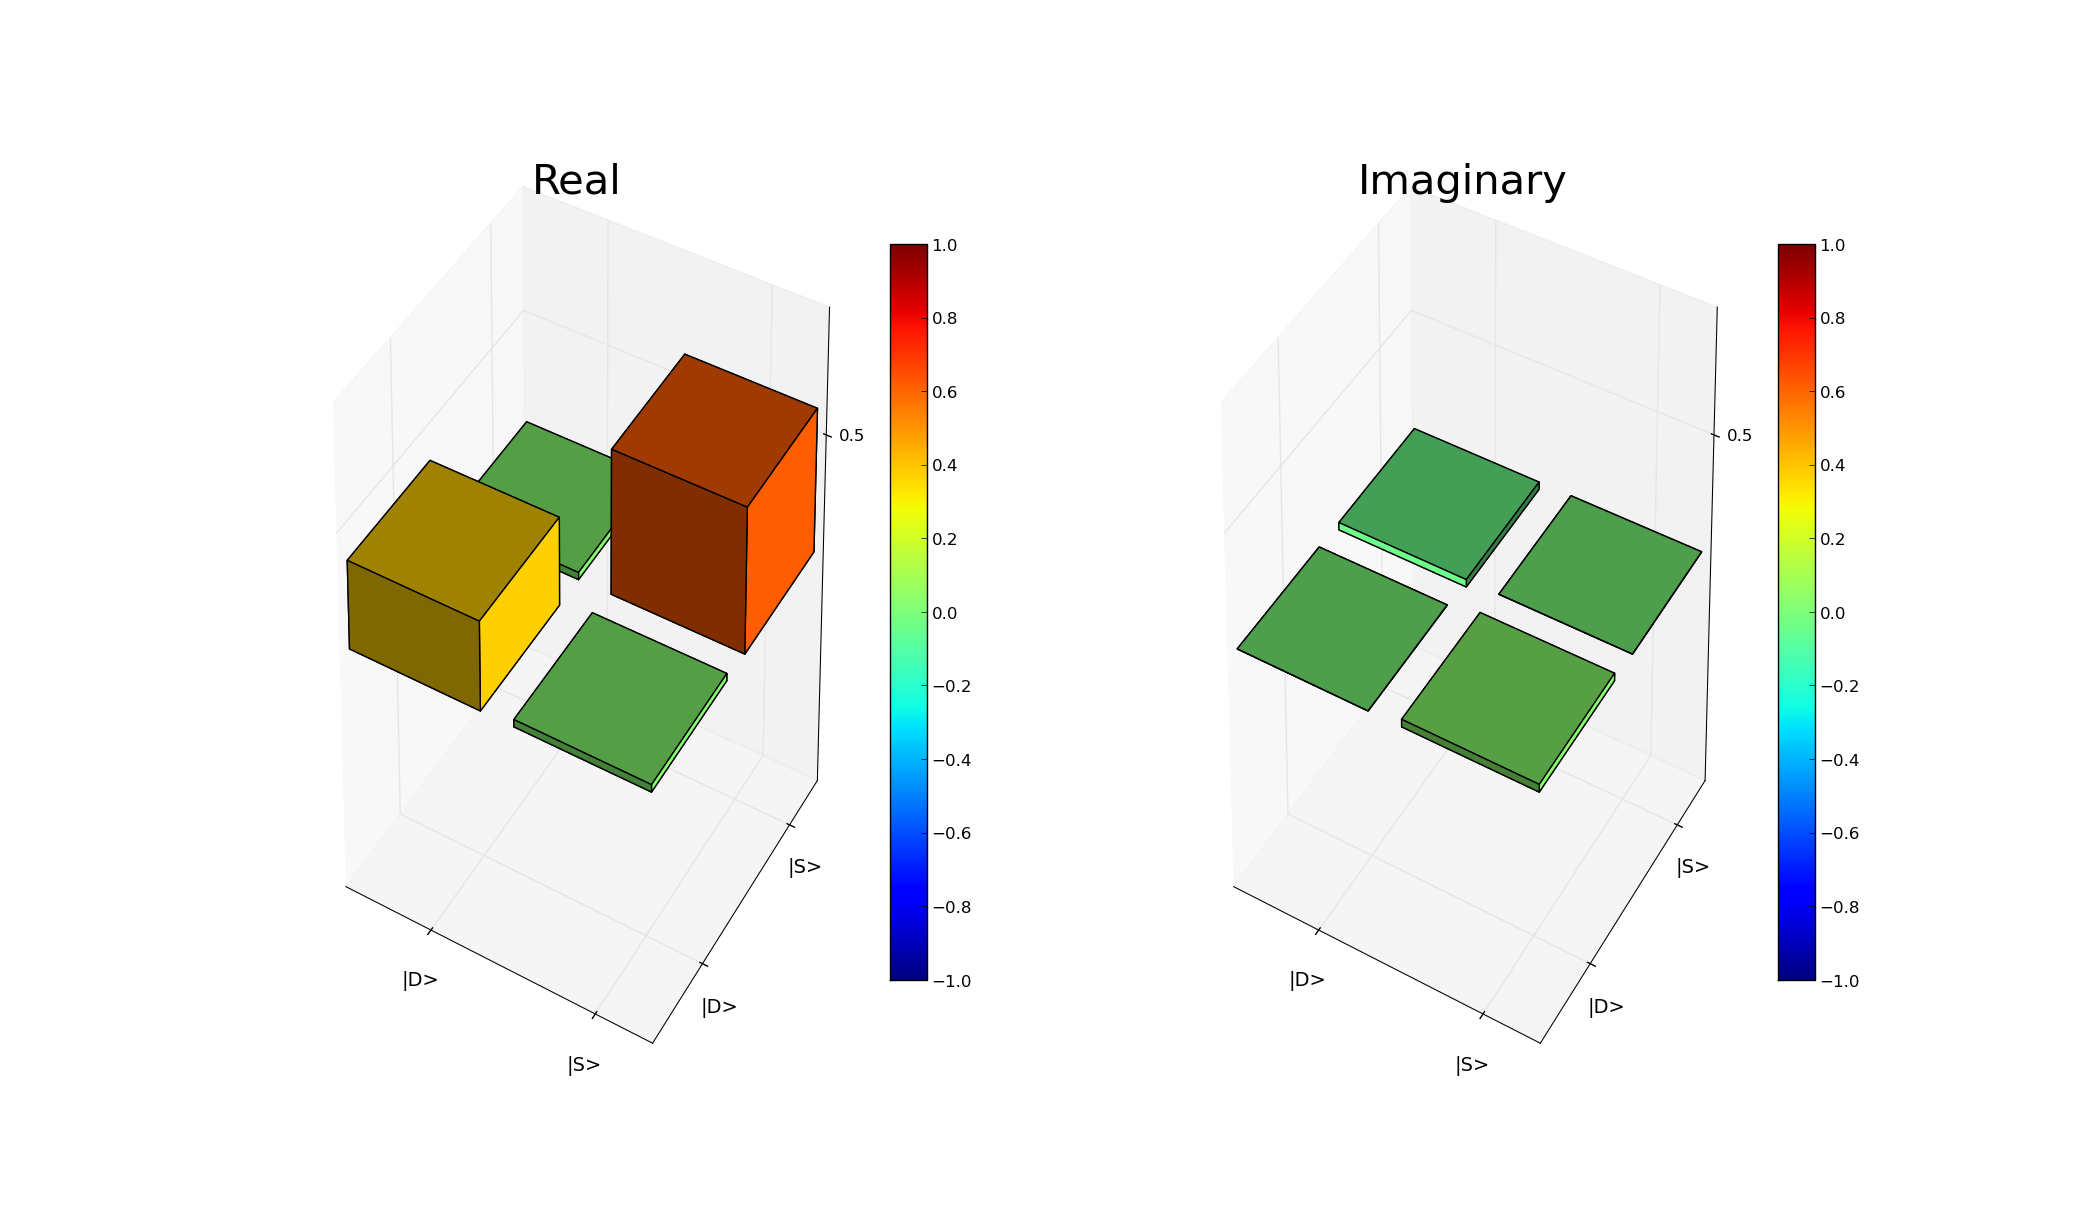
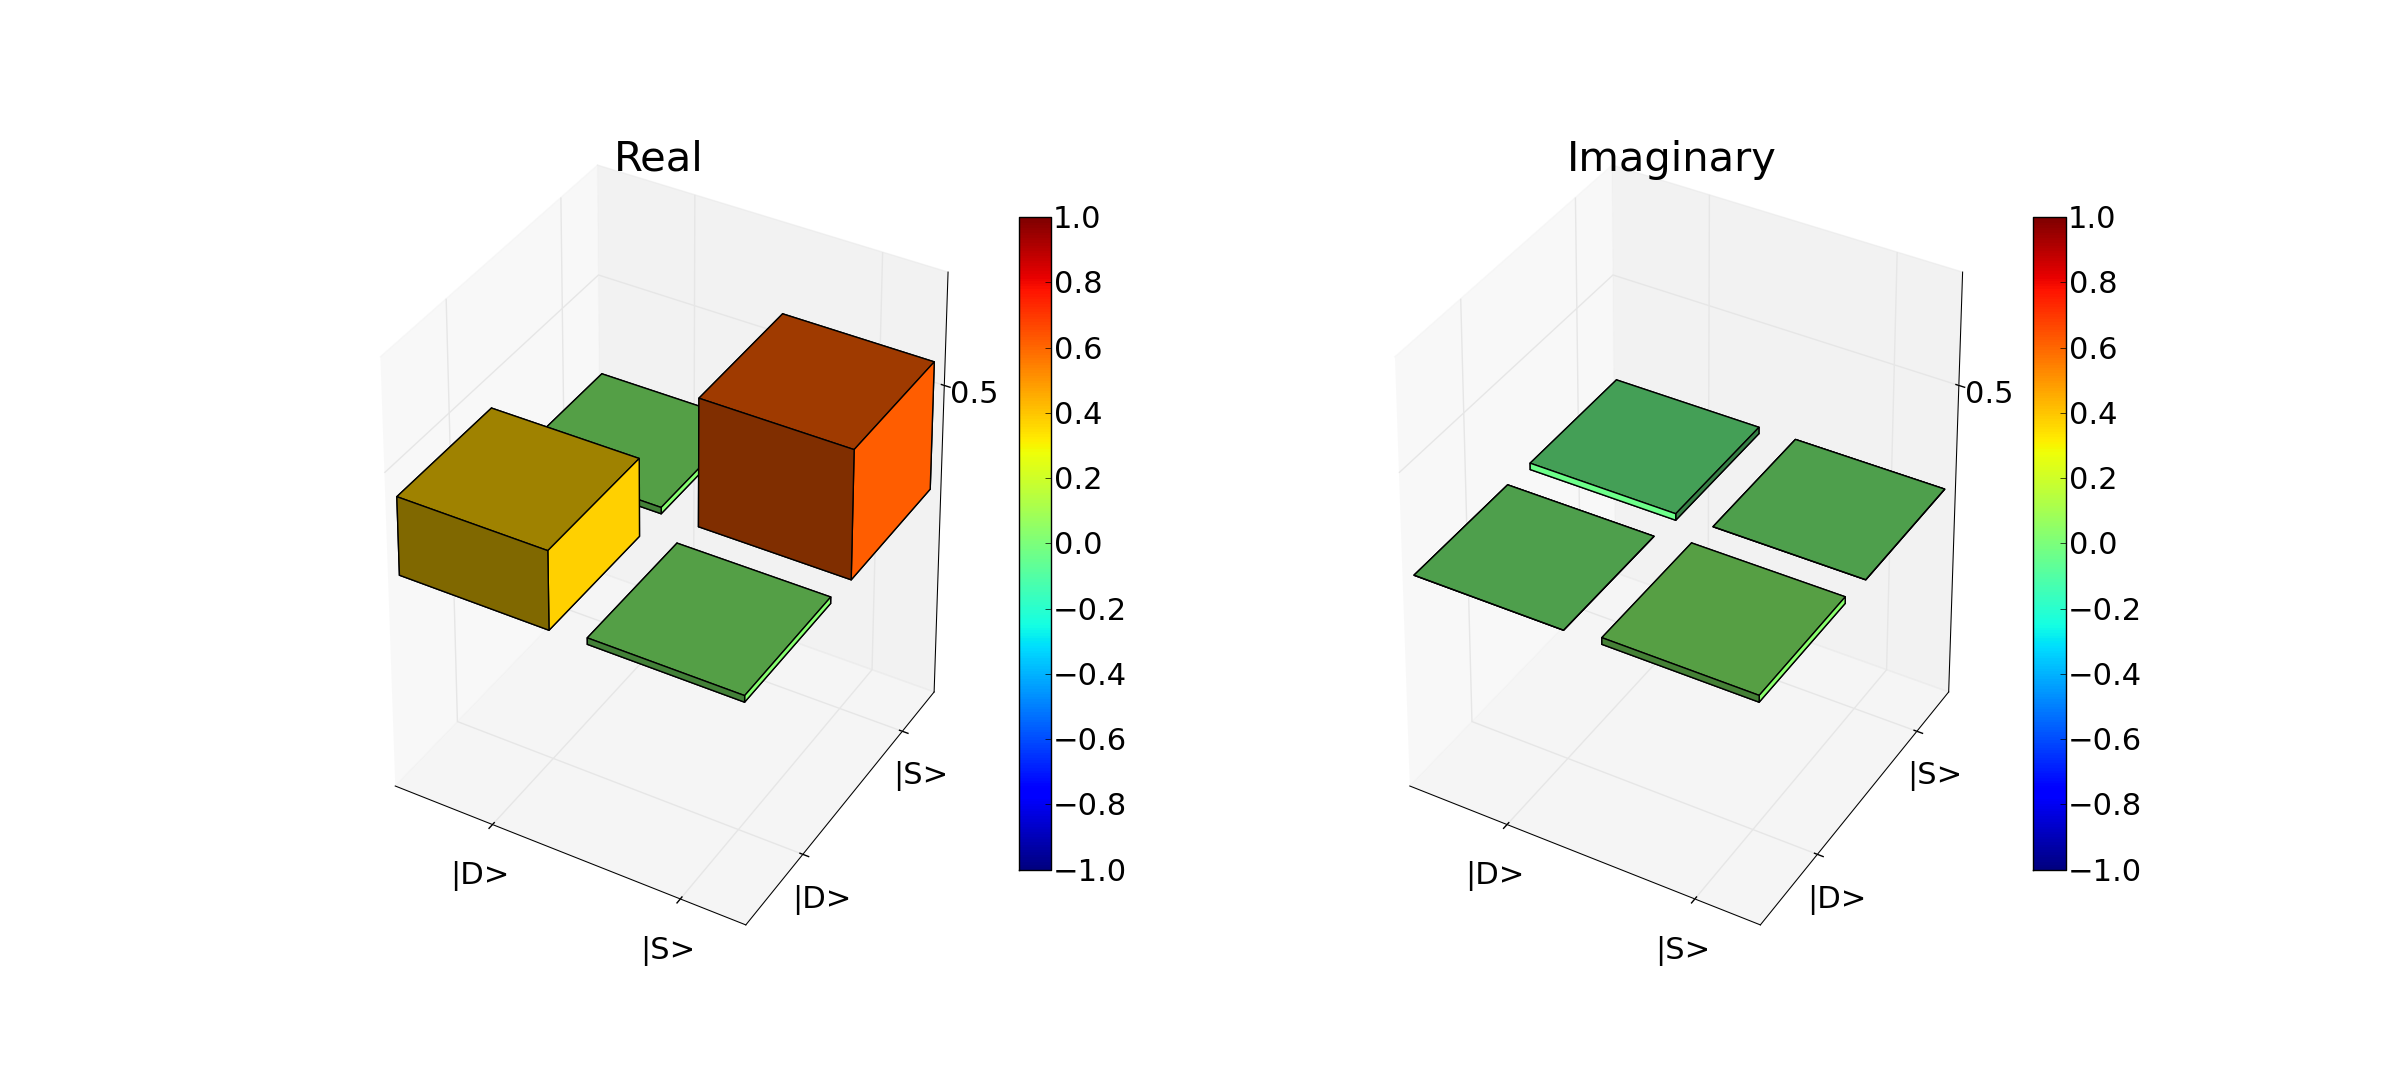
bigger font on the analysis

diff --git a/scripts/dataAnalysis/729Experiments/2013Mar13/tomography_plot.py b/scripts/dataAnalysis/729Experiments/2013Mar13/tomography_plot.py
@@ -27,14 +27,36 @@ density_matrx = np.array([[z, x + 1j*y],[x - 1j*y, 1 - z]])
 real = np.real(density_matrx)
 imag = np.imag(density_matrx)
 
+#make the figure
+#this uses the qutip routine as the baseline but then makes modifications for bigger font sizes
 fig = pyplot.figure()
+
 labels = ['|D>','|S>']
+zlim = [-1,1]
+norm = matplotlib.colors.Normalize(zlim[0], zlim[1])
+#first plot
 ax = fig.add_subplot(121, projection = '3d')
 ax.set_title('Real', fontsize = 30)
-q.matrix_histogram(real,  limits = [-1,1], fig = fig, ax = ax, xlabels = labels, ylabels = labels)
+q.matrix_histogram(real,  limits = zlim, fig = fig, ax = ax, colorbar = False)
+ax.set_xticklabels(labels, fontsize = 22)
+ax.set_yticklabels(labels, fontsize = 22)
+ax.tick_params(axis='z', labelsize=22)
+cax, kw = matplotlib.colorbar.make_axes(ax, shrink=.75, pad=.0)
+cb1 = matplotlib.colorbar.ColorbarBase(cax, norm = norm)
+cl = pyplot.getp(cax, 'ymajorticklabels') 
+pyplot.setp(cl, fontsize=22)
+#next subplot
 ax = fig.add_subplot(122, projection = '3d')
 ax.set_title('Imaginary', fontsize = 30)
-q.matrix_histogram(imag, limits = [-1,1], fig = fig, ax = ax, xlabels = labels, ylabels = labels)
+q.matrix_histogram(imag, limits = zlim, fig = fig, ax = ax, colorbar = False)
+ax.set_xticklabels(labels, fontsize = 22)
+ax.set_yticklabels(labels, fontsize = 22)
+ax.tick_params(axis='z', labelsize=22)
+cax, kw = matplotlib.colorbar.make_axes(ax, shrink=.75, pad=.0)
+cb1 = matplotlib.colorbar.ColorbarBase(cax, norm = norm)
+cl = pyplot.getp(cax, 'ymajorticklabels') 
+pyplot.setp(cl, fontsize=22)
+
 
 #ax = fig.add_subplot(133)
 #ax.get_xaxis().set_visible(False)
